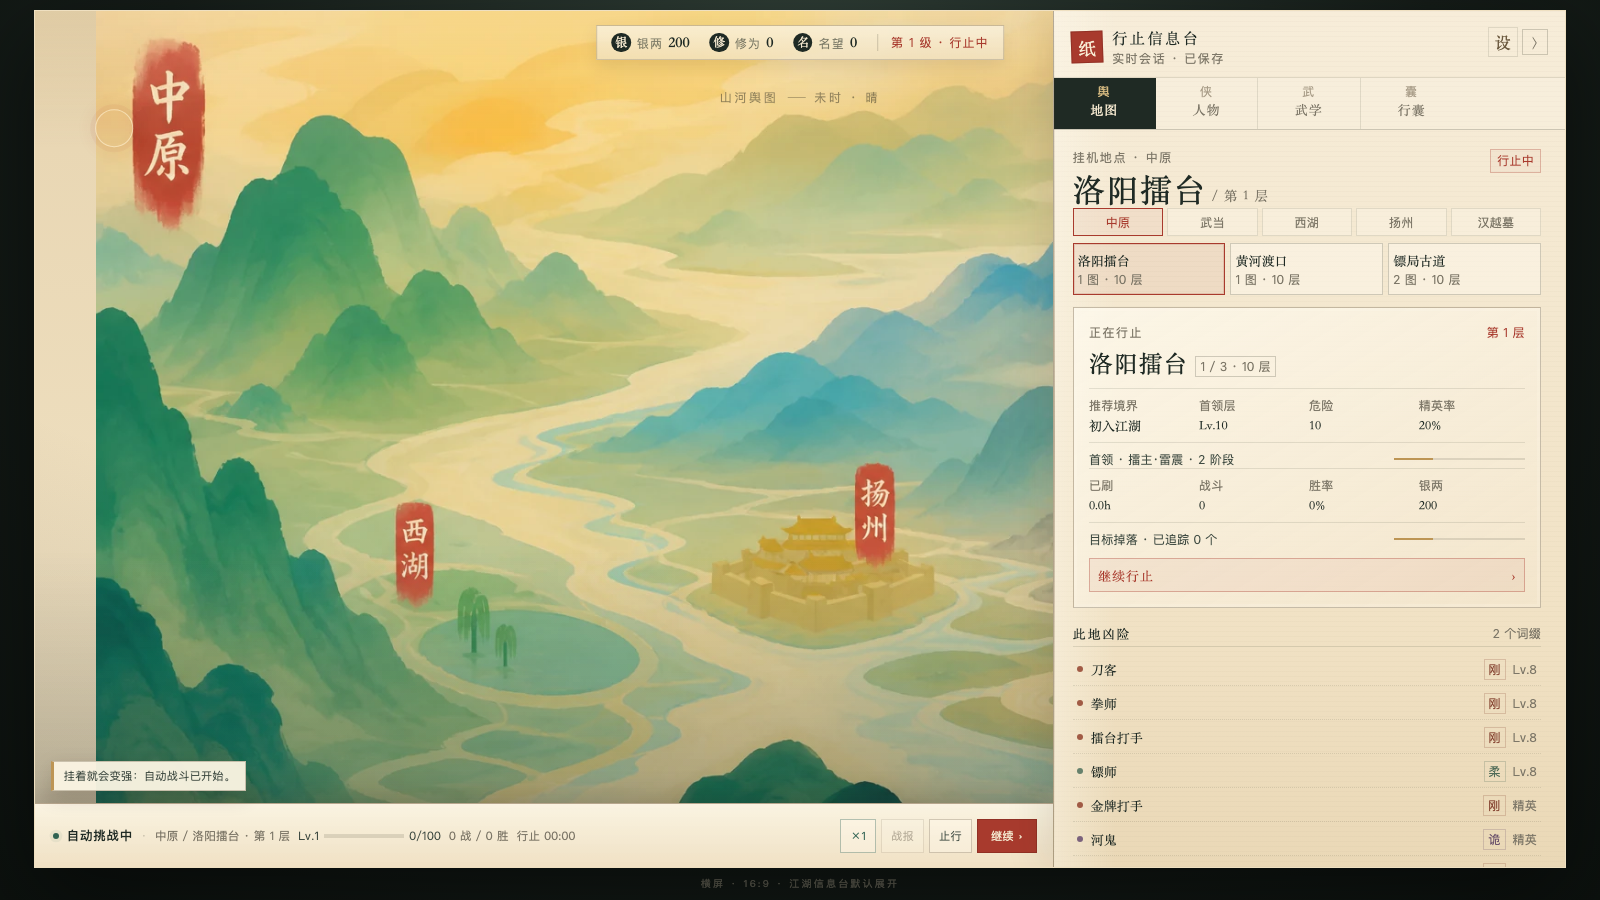
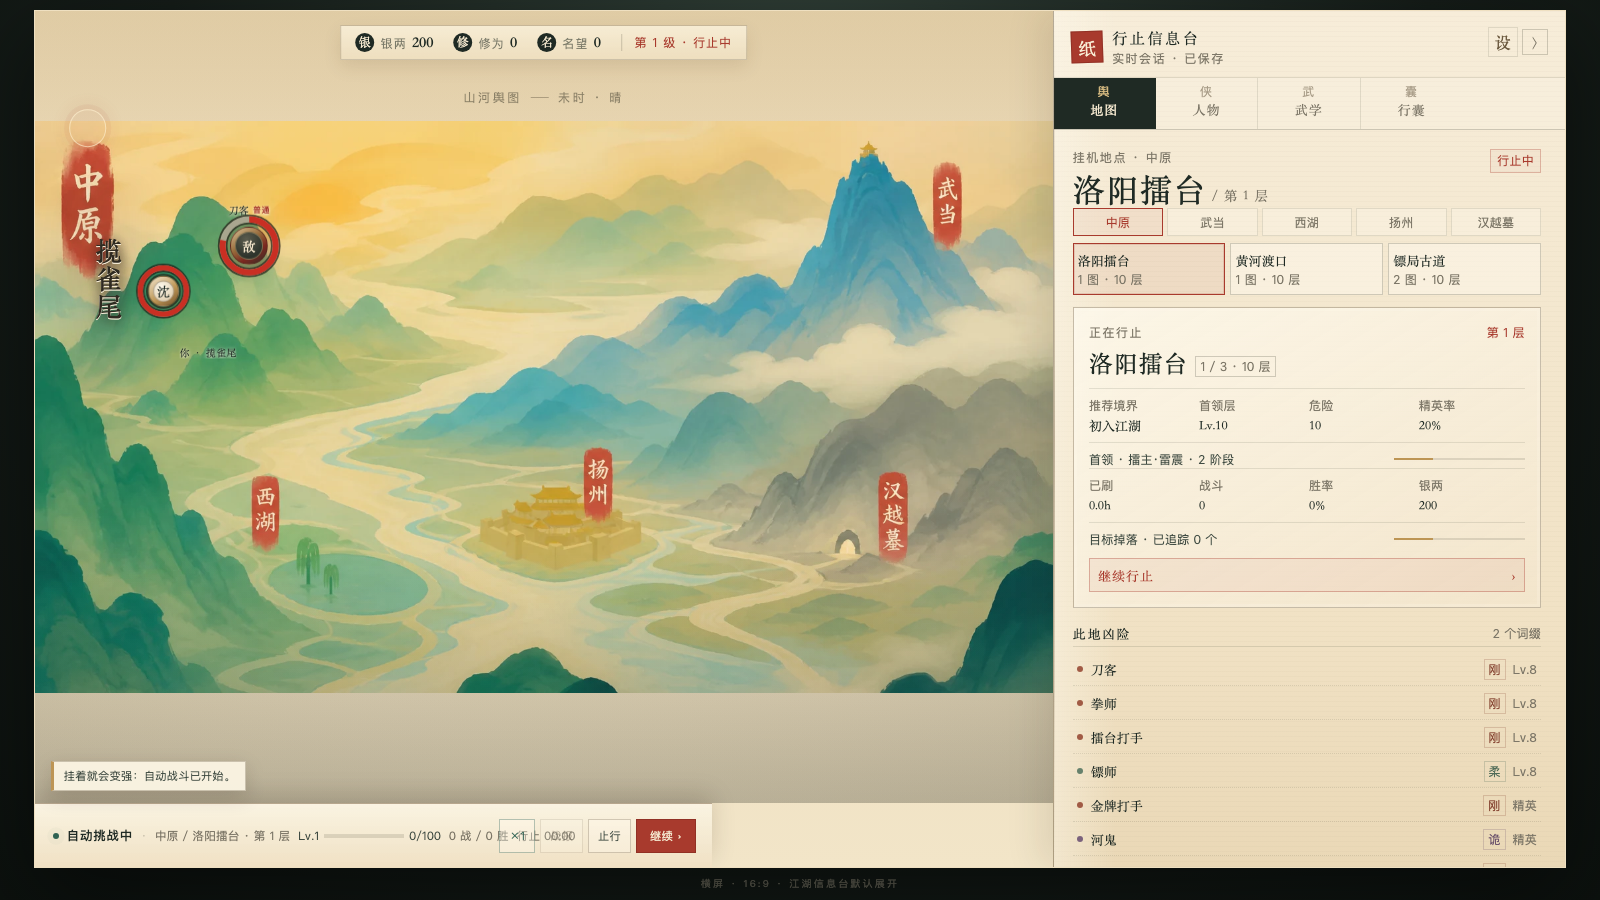
ui: reserve panel width and fit the whole map

diff --git a/src/ui/styles.css b/src/ui/styles.css
@@ -2336,3 +2336,6 @@ html[data-reduced-motion="true"] *, html[data-reduced-motion="true"] *::before, 
   .stage .map-art,
   .stage.no-panel .map-art { height: calc(100% - 58px); }
 }
+/* reserve the info panel out of the map viewport so the whole map fits left */
+.map-pane { right: 33.5%; width: auto; }
+.stage.no-panel .map-pane { right: 0; }
